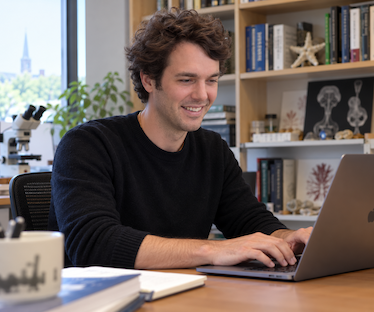
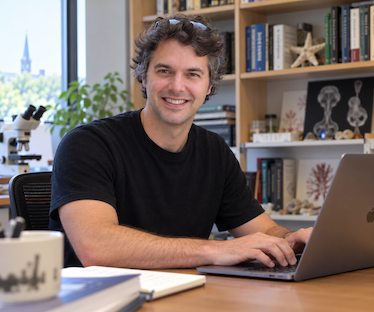
New nick image

diff --git a/start_a_project/README.md b/start_a_project/README.md
@@ -6,7 +6,7 @@ The advice in this section does not need to be taken all that seriously. There a
 
 The way I organize projects, is create a single project directory (Fig 1). Within this directory, I then create subdirectories for important data, code, or specific analyses.
 
-![Fig 1](https://github.com/treyjscott/computational_tools_for_molecular_biology_fools/tree/main/static/img/directory_layout.png)
+![Fig 1](https://github.com/treyjscott/computational_tools_for_molecular_biology_fools/blob/main/static/img//directory_layout.png)
 
 I keep all code in a single directory (scripts), but this can also get messy. An alternative is to keep code for specific analyses within their respective directories.
 
